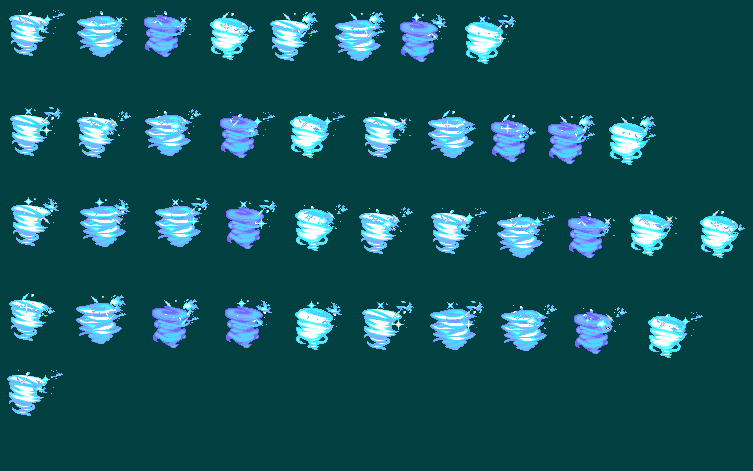
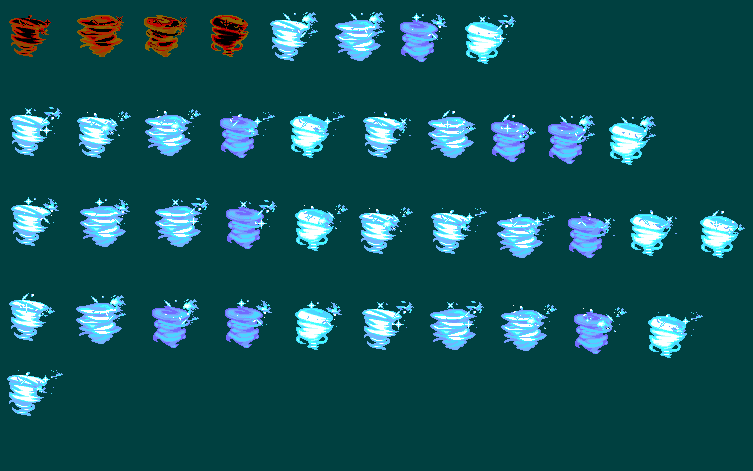
Correction de bug + amélioration graphique LE PHOENYX PUTIN

Changed region(s): [[0.0, 0.0297, 0.2444, 0.1189], [0.2749, 0.0297, 0.336, 0.1189]]

diff --git a/classes.py b/classes.py
@@ -144,6 +144,8 @@ class Mario(Perso):
         self.isCoin = 0
         self.onFire = 0
         self.canBreak = 0
+        self.isTornado = 0
+        self.frameSpeed = 30
 
     def update(self):
         if self.deadOn == 0:
@@ -199,20 +201,22 @@ class Mario(Perso):
 
             block_hit_list = pygame.sprite.spritecollide(self, block_list, False)                    #Collisions X blocs
             for block in block_hit_list:
-                if self.changeX > 0:
-                    self.rect.right = block.rect.left
-                elif self.changeX < 0:
-                    self.rect.left = block.rect.right
+                if self.isTornado == 0:
+                    if self.changeX > 0:
+                        self.rect.right = block.rect.left
+                    elif self.changeX < 0:
+                        self.rect.left = block.rect.right
 
             self.rect.y += self.changeY
 
             block_hit_list = pygame.sprite.spritecollide(self, block_list, False)                    #Collisions Y blocs
             for block in block_hit_list:
-                if self.changeY > 0:
+                if self.changeY > 0 or (self.isTornado == 1 and not block.isTraversable):
                     self.rect.bottom = block.rect.top
                     if block.deadly == 1:
                         self.death()
-                elif self.changeY < 0:
+
+                elif self.changeY < 0 and self.isTornado == 0:
                     self.rect.top = block.rect.bottom
                     if block.isBreakable == 1 and (self.upgraded == 1 or self.onFire == 1):
                         block_list.remove(block)
@@ -307,26 +311,30 @@ class Mario(Perso):
 
             monstres_hit_list = pygame.sprite.spritecollide(self, monstres_list, False)             #Collisions monstres
             for goomba in monstres_hit_list:
-                if self.changeY > 0:
-                    self.rect.y -= 5
-                    self.changeY = -5
-                    goomba_stomp_play()
-                    monstres_list.remove(goomba)
-                    active_sprite_list.remove(goomba)
-                else:
-                    if self.onFire == 1:
-                        deUpgrade_sound_play()
+                if self.isTornado == 0:
+                    if self.changeY > 0:
+                        self.rect.y -= 5
+                        self.changeY = -5
+                        goomba_stomp_play()
                         monstres_list.remove(goomba)
                         active_sprite_list.remove(goomba)
-                        self.onFire = 0
                     else:
-                        if self.upgraded == 1:
+                        if self.onFire == 1:
                             deUpgrade_sound_play()
                             monstres_list.remove(goomba)
                             active_sprite_list.remove(goomba)
-                            self.upgraded = 0
+                            self.onFire = 0
                         else:
-                            self.death()
+                            if self.upgraded == 1:
+                                deUpgrade_sound_play()
+                                monstres_list.remove(goomba)
+                                active_sprite_list.remove(goomba)
+                                self.upgraded = 0
+                            else:
+                                self.death()
+                elif self.isTornado == 1:
+                    monstres_list.remove(goomba)
+                    active_sprite_list.remove(goomba)
 
             if self.rect.y >= screenY:
                 self.death()
@@ -368,9 +376,9 @@ class Mario(Perso):
                     self.stand += 1
                 else:  #Si il marche
                     if self.isScrolling == 1:
-                        frame = (self.rect.x + self.niveauScroll // 30) % len(self.walk_r)
+                        frame = (self.rect.x + self.niveauScroll // self.frameSpeed) % len(self.walk_r)
                     else:
-                        frame = (self.rect.x  // 30) % len(self.walk_r)
+                        frame = (self.rect.x  // self.frameSpeed) % len(self.walk_r)
                     self.image = self.walk_r[frame]
             else:  #Si il est en l'air
                 if self.changeY >= 5:  #Si Mario tombe
@@ -385,9 +393,9 @@ class Mario(Perso):
                     self.stand += 1
                 else:  #Si il marche
                     if self.isScrolling == 1:
-                        frame = (self.rect.x + self.niveauScroll // 30) % len(self.walk_l)
+                        frame = (self.rect.x + self.niveauScroll // self.frameSpeed) % len(self.walk_l)
                     else:
-                        frame = (self.rect.x // 30) % len(self.walk_l)
+                        frame = (self.rect.x // self.frameSpeed) % len(self.walk_l)
                     self.image = self.walk_l[frame]
             else:  #Si il est en l'air
                 if self.changeY >= 5:  #Si Mario tombe
@@ -621,6 +629,7 @@ class Block(pygame.sprite.Sprite):
         self.deadly = 0
         self.giveCoin = 0
         self.isBreakable = 0
+        self.isTraversable = 0
         self.gmushroom_activation = 0
 
 
@@ -693,18 +702,22 @@ class Niveau():
 
                 elif sprite == 'p':
                     invisibleBlock = Sol("images/pipe_lb.png", x, y)
+                    invisibleBlock.isTraversable = 1
                     block_list.add(invisibleBlock)
 
                 elif sprite == 'P':
                     invisibleBlock = Sol("images/pipe_lt.png", x, y)
+                    invisibleBlock.isTraversable = 1
                     block_list.add(invisibleBlock)
 
                 elif sprite == 't':
                     invisibleBlock = Sol("images/pipe_rb.png", x, y)
+                    invisibleBlock.isTraversable = 1
                     block_list.add(invisibleBlock)
 
                 elif sprite == 'T':
                     invisibleBlock = Sol("images/pipe_rt.png", x, y)
+                    invisibleBlock.isTraversable = 1
                     block_list.add(invisibleBlock)
 
                 elif sprite == 'i':

diff --git a/foncts.py b/foncts.py
@@ -192,6 +192,7 @@ def itemUpdate(SpriteImage, FireBall, mario):
 
     if mario.time_tornado > 0:
         #mario.rect.y = 250
+        x,y = mario.rect.x, mario.rect.y
         mario.time_tornado -= 1
         if mario.lookat == "right":
             mario.changeX = 1
@@ -214,11 +215,18 @@ def itemUpdate(SpriteImage, FireBall, mario):
         mario.isControlable = 1
         mario.time_tornado = -1
         spriteSheet = SpriteImage("images/mario sheet.png", vertFond, 1)
+        marioSheet = SpriteImage("images/mario sheet.png", vertFond, 1)
+        mario.image = marioSheet.get_imageXY(72, 5, 87, 31)
         mario.walkHold_r = [spriteSheet.get_imageXY(72, 37, 87, 63),
                        spriteSheet.get_imageXY(104, 36, 120, 62),
                        spriteSheet.get_imageXY(136, 37, 151, 63),
                        spriteSheet.get_imageXY(168, 37, 183, 63)]
         mario.onFire = 1
+        mario.rect = mario.image.get_rect()
+        mario.rect.x = x - 20
+        mario.rect.y = 0
+        mario.isTornado = 0
+        mario.frameSpeed = 30
 
 def nomarioMovement(monstres_list, item_list, mario):
 
@@ -318,15 +326,30 @@ def jeuFonct(event, mario, SpriteImage, FireBall, Shuriken):
 
     #Phoenyx Ballet
     if (event.type == KEYDOWN and event.key == K_y) and mario.time == 210:
+        x,y = mario.rect.x, mario.rect.y
         spriteSheet = SpriteImage("images/tornado_sheet.png", kakiFond, 0)
-        mario.walk_r = [spriteSheet.get_imageXY(9, 10, 64, 55),
-                       spriteSheet.get_imageXY(77, 11, 126, 56),
-                       spriteSheet.get_imageXY(144, 11, 190, 57),
-                       spriteSheet.get_imageXY(210, 12, 254, 59)]
-        mario.time_tornado = 270
+        mario.walk_r = [spriteSheet.get_imageXY(9, 15, 50, 56),
+                       spriteSheet.get_imageXY(77, 15, 122, 56),
+                       spriteSheet.get_imageXY(144, 15, 186, 56),
+                       spriteSheet.get_imageXY(210, 15, 248, 56)]
+        mario.jump_r = mario.walk_r
+        mario.walk_l = [pygame.transform.flip(x, True, False) for x in mario.walk_r]
+        mario.jump_l = [pygame.transform.flip(x, True, False) for x in mario.jump_r]
+        mario.image = spriteSheet.get_imageXY(9, 15, 50, 56)
+        mario.rect = mario.image.get_rect()
+        if mario.lookat == "right":
+            mario.rect.x = x
+            mario.rect.y = y - 10
+        else:
+            mario.rect.x = x -10
+            mario.rect.y = y - 10
+        mario.time_tornado = 241
         tornado_sound_play(), phoenyx_sound_play()
         mario.isControlable = 0
         mario.onFire = 2
+        mario.frameSpeed = 15
+        mario.upgraded = 1
+        mario.isTornado = 1
         mario.stop()
 
 def niveauFonct(niveau, choix, screen, fonct):
